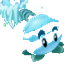
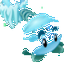
fix(melon): 3 corrections from user review (v3.2.7 -> v3.2.8-3fixes)
1) Make MelonPult seed-packet border match other plants.
   The previous HD-seed-packet was a flat 100x120 with 25 transparent pixels
   (no rounded corners). Now using Peashooter.png as a template canvas and
   pasting the 96x96 PVZ1 Melon-pult sprite into its top half (with a
   grayscale version of the same sprite in the bottom silhouette half).
   Result: rounded corners + black border + 807 transparent pixels — same
   style as every other plant card.

2) Remove Winter Melon from the pre-game seed chooser.
   The user pointed out Winter Melon 'is a late-game fusion result, not a
   pre-game card'. Reverted the v3.2.7 change in GameLoop.js initUI().
   Winter Melon is still obtainable via the in-game glove (melonpult +
   iceshroom -> wintermelon) and via fusion with cattail.

3) Fill the remaining 211 internal holes in the Winter Melon bullet
   (and 65 in the 32x32 small variant). The earlier fill_melon_holes.py
   only handled the plant sprite, not the bullet. These bullet holes
   (mostly concentrated in the y=56..63 band) had RGB(0,0,0) as their
   original colour, so the old 'restore original RGB' fill would have
   produced black specks. The new fill_winter_holes.py iterates layer by
   layer and uses the mean colour of the 8 non-transparent neighbours,
   which yields the surrounding ice-blue. (Plant WinterMelon.png already
   had 0 internal holes after v3.2.5-fill.)

- Bumped v3.2.7-fusioncard -> v3.2.8-3fixes.

diff --git a/pvz-web/js/GameLoop.js b/pvz-web/js/GameLoop.js
@@ -214,7 +214,7 @@ class Game {
             { type: 'chomper', cost: 150, cooldown: 7.5, img: 'assets/images/Card/Plants/Chomper.png' },
             { type: 'tallnut', cost: 125, cooldown: 30, img: 'assets/images/Card/Plants/TallNut.png' },
             { type: 'puffshroom', cost: 0, cooldown: 7.5, img: 'assets/images/Card/Plants/PuffShroom.png' },
-            { type: 'melonpult', cost: 300, cooldown: 7.5, img: 'assets/images/Card/Plants/MelonPult.png?v=1788076883' },            { type: 'wintermelon', cost: 500, cooldown: 30, img: 'assets/images/Card/Plants/WinterMelon.png?v=1788076883' },{ type: 'iceshroom', cost: 75, cooldown: 50, img: 'assets/images/Card/Plants/IceShroom.png' },
+            { type: 'melonpult', cost: 300, cooldown: 7.5, img: 'assets/images/Card/Plants/MelonPult.png?v=1788077290' },{ type: 'iceshroom', cost: 75, cooldown: 50, img: 'assets/images/Card/Plants/IceShroom.png' },
             { type: 'doomshroom', cost: 125, cooldown: 50, img: 'assets/images/Card/Plants/DoomShroom.png' },
             { type: 'spikeweed', cost: 100, cooldown: 7.5, img: 'assets/images/Card/Plants/Spikeweed.png' },
             { type: 'garlic', cost: 50, cooldown: 7.5, img: 'assets/images/Card/Plants/Garlic.png' }
@@ -277,7 +277,7 @@ class Game {
             { a: 'snowpea', b: 'wallnut', result: '寒冰坚果', img: 'assets/images/Plants/WallNut/WallNut.gif', filter: 'hue-rotate(180deg) saturate(1.5) brightness(1.2)', css: false },
             { a: 'peashooter', b: 'cherrybomb', result: '樱桃射手', img: 'assets/images/Plants/Peashooter/Peashooter.gif', filter: 'hue-rotate(-45deg) saturate(2.0)', css: false },
             { a: 'sunflower', b: 'doomshroom', result: '毁灭向日葵', img: 'assets/images/Plants/SunFlower/SunFlower1.gif', filter: 'grayscale(0.8) brightness(0.6) sepia(1) hue-rotate(240deg) saturate(3)', css: false },
-            { a: 'melonpult', b: 'iceshroom', result: '冰西瓜投手', img: 'assets/images/Plants/WinterMelon/WinterMelon.png?v=1788076883', css: false },
+            { a: 'melonpult', b: 'iceshroom', result: '冰西瓜投手', img: 'assets/images/Plants/WinterMelon/WinterMelon.png?v=1788077290', css: false },
             { a: 'repeater', b: 'spikeweed', result: '猫尾草', img: 'assets/images/Plants/Cattail/Cattail.gif', css: false },
             { a: 'fumeshroom', b: 'fumeshroom', result: '忧郁菇', img: 'assets/images/Plants/GloomShroom/GloomShroom.gif', css: false },
             { a: 'spikeweed', b: 'spikeweed', result: '钢地刺', img: 'assets/images/Plants/Spikerock/Spikerock.gif', css: false },
@@ -310,8 +310,8 @@ class Game {
                     'squash': 'assets/images/Plants/Squash/Squash.gif',
                     'doomshroom': 'assets/images/Plants/DoomShroom/DoomShroom.gif',
                     'jalapeno': 'assets/images/Plants/Jalapeno/Jalapeno.gif',
-                    'melonpult': 'assets/images/Plants/MelonPult/MelonPult.png?v=1788076883',
-                    'wintermelon': 'assets/images/Plants/WinterMelon/WinterMelon.png?v=1788076883',
+                    'melonpult': 'assets/images/Plants/MelonPult/MelonPult.png?v=1788077290',
+                    'wintermelon': 'assets/images/Plants/WinterMelon/WinterMelon.png?v=1788077290',
                     'cattail': 'assets/images/Plants/Cattail/Cattail.gif',
                     'gloomshroom': 'assets/images/Plants/GloomShroom/GloomShroom.gif',
                     'spikerock': 'assets/images/Plants/Spikerock/Spikerock.gif'

diff --git a/pvz-web/index.html b/pvz-web/index.html
@@ -4,7 +4,7 @@
     <meta charset="UTF-8">
     <meta name="viewport" content="width=device-width, initial-scale=1.0">
     <title>Plants vs Zombies - Web Clone</title>
-    <link rel="stylesheet" href="css/style.css?v=1788076883">
+    <link rel="stylesheet" href="css/style.css?v=1788077290">
 </head>
 <body>
     <div id="game-container">
@@ -119,16 +119,16 @@
                 });
         })();
     </script>
-    <script src="js/InputManager.js?v=1788076883"></script>
-    <script src="js/Board.js?v=1788076883"></script>
-    <script src="js/entities/Entity.js?v=1788076883"></script>
-    <script src="js/entities/Plant.js?v=1788076883"></script>
-    <script src="js/entities/Zombie.js?v=1788076883"></script>
-    <script src="js/entities/Projectile.js?v=1788076883"></script>
-    <script src="js/entities/Sun.js?v=1788076883"></script>
-    <script src="js/managers/WaveManager.js?v=1788076883"></script>
-    <script src="js/managers/CollisionManager.js?v=1788076883"></script>
-    <script src="js/managers/EventManager.js?v=1788076883"></script>
-    <script src="js/GameLoop.js?v=1788076883"></script>
+    <script src="js/InputManager.js?v=1788077290"></script>
+    <script src="js/Board.js?v=1788077290"></script>
+    <script src="js/entities/Entity.js?v=1788077290"></script>
+    <script src="js/entities/Plant.js?v=1788077290"></script>
+    <script src="js/entities/Zombie.js?v=1788077290"></script>
+    <script src="js/entities/Projectile.js?v=1788077290"></script>
+    <script src="js/entities/Sun.js?v=1788077290"></script>
+    <script src="js/managers/WaveManager.js?v=1788077290"></script>
+    <script src="js/managers/CollisionManager.js?v=1788077290"></script>
+    <script src="js/managers/EventManager.js?v=1788077290"></script>
+    <script src="js/GameLoop.js?v=1788077290"></script>
 </body>
 </html>

diff --git a/fill_winter_holes.py b/fill_winter_holes.py
@@ -1,0 +1,84 @@
+"""
+修复冰西瓜子弹（MelonPult/WinterMelon.png 64x64）底部空洞：
+用周围非透明像素的平均色填充（避免原色(0,0,0)黑点）。
+同时重新验证植物图无空洞。
+"""
+import numpy as np
+from PIL import Image
+from collections import deque
+
+
+def fill_holes_with_surround(path, out_path=None):
+    img = Image.open(path).convert('RGBA')
+    arr = np.array(img)
+    h, w = arr.shape[:2]
+    alpha = arr[:, :, 3]
+    transparent = alpha == 0
+
+    # BFS 找真背景
+    visited = np.zeros_like(transparent, dtype=bool)
+    q = deque()
+    for x in range(w):
+        if transparent[0, x] and not visited[0, x]: q.append((0, x)); visited[0, x] = True
+        if transparent[h-1, x] and not visited[h-1, x]: q.append((h-1, x)); visited[h-1, x] = True
+    for y in range(h):
+        if transparent[y, 0] and not visited[y, 0]: q.append((y, 0)); visited[y, 0] = True
+        if transparent[y, w-1] and not visited[y, w-1]: q.append((y, w-1)); visited[y, w-1] = True
+    while q:
+        y, x = q.popleft()
+        for dy, dx in [(-1,0),(1,0),(0,-1),(0,1)]:
+            ny, nx = y+dy, x+dx
+            if 0 <= ny < h and 0 <= nx < w and transparent[ny, nx] and not visited[ny, nx]:
+                visited[ny, nx] = True; q.append((ny, nx))
+
+    holes = transparent & ~visited
+    n = int(holes.sum())
+    if n == 0:
+        print(f'{path.split("/")[-1]}: 无内部空洞')
+        return
+
+    # 迭代填充：每轮填一层（用邻居的非透明色）
+    work = arr.copy()
+    for _ in range(max(h, w)):
+        ys, xs = np.where(holes)
+        if len(ys) == 0:
+            break
+        filled = []
+        for y, x in zip(ys, xs):
+            colors = []
+            for dy in (-1, 0, 1):
+                for dx in (-1, 0, 1):
+                    if dy == 0 and dx == 0:
+                        continue
+                    ny, nx = y+dy, x+dx
+                    if 0 <= ny < h and 0 <= nx < w and work[ny, nx, 3] > 0:
+                        colors.append(work[ny, nx, :3])
+            if colors:
+                avg = tuple(int(np.mean([c[i] for c in colors])) for i in range(3))
+                work[y, x, :3] = avg
+                work[y, x, 3] = 255
+                filled.append((y, x))
+        for y, x in filled:
+            holes[y, x] = False
+        if not filled:
+            break
+
+    out = out_path or path
+    Image.fromarray(work, 'RGBA').save(out, 'PNG')
+    print(f'{path.split("/")[-1]}: 填补 {n} 个空洞 -> saved {out}')
+
+
+# 子弹
+fill_holes_with_surround(
+    '/Users/clawbox/nexus-hub/pvz-web/assets/images/Plants/MelonPult/WinterMelon.png')
+
+# 植物（验证无空洞）
+from PIL import Image as I2
+import numpy as np
+img = I2.open('/Users/clawbox/nexus-hub/pvz-web/assets/images/Plants/WinterMelon/WinterMelon.png').convert('RGBA')
+arr = np.array(img)
+print('WinterMelon 植物: alpha=0:', (arr[:,:,3]==0).sum(), 'alpha=255:', (arr[:,:,3]==255).sum())
+
+# 小尺寸子弹同步
+fill_holes_with_surround(
+    '/Users/clawbox/nexus-hub/pvz-web/assets/images/Plants/MelonPult/WinterMelon_small.png')

diff --git a/make_melon_card_v2.py b/make_melon_card_v2.py
@@ -1,0 +1,39 @@
+"""
+用 Peashooter.png 卡片作为模板，生成与其他植物完全一致的 MelonPult 卡片：
+- 边框/圆角/背景/上下分界 = 与 Peashooter 100% 相同（用户要求"跟其他植物一样"）
+- 上半：原版 MelonPult.png（96x96 已抠草）缩放贴入
+- 下半：MelonPult 灰度剪影
+"""
+import numpy as np
+from PIL import Image, ImageOps
+
+TPL = '/Users/clawbox/nexus-hub/pvz-web/assets/images/Card/Plants/Peashooter.png'
+MELON = '/Users/clawbox/nexus-hub/pvz-web/assets/images/Plants/MelonPult/MelonPult.png'
+OUT = '/Users/clawbox/nexus-hub/pvz-web/assets/images/Card/Plants/MelonPult.png'
+
+
+def main():
+    base = Image.open(TPL).convert('RGBA')  # 100x120 模板（含圆角/背景）
+    melon = Image.open(MELON).convert('RGBA')  # 96x96 抠草植物
+
+    # 1. 上半：彩色西瓜（贴到 y=6..76 区域，居中）
+    # 缩放西瓜到约 68x68（保持比例）
+    melon_top = melon.resize((68, 68), Image.LANCZOS)
+    # 贴到画布上部（居中）
+    base.paste(melon_top, (16, 4), melon_top)
+
+    # 2. 下半：灰度剪影（贴到 y=70..118）
+    # 提取灰度+alpha
+    melon_gray = ImageOps.grayscale(melon.convert('RGB')).convert('RGBA')
+    # 用原 alpha 作为遮罩（透明处保持透明）
+    r, g, b, a = melon.split()
+    melon_gray.putalpha(a)
+    melon_gray = melon_gray.resize((68, 68), Image.LANCZOS)
+    base.paste(melon_gray, (16, 50), melon_gray)
+
+    base.save(OUT, 'PNG')
+    print(f'saved {OUT}  {base.size}')
+
+
+if __name__ == '__main__':
+    main()
